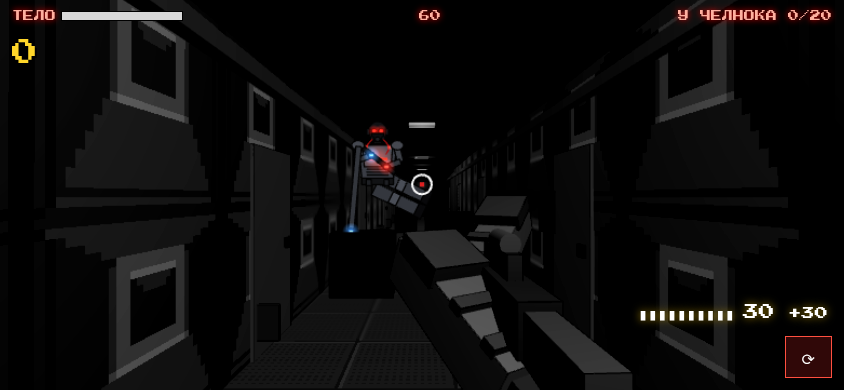
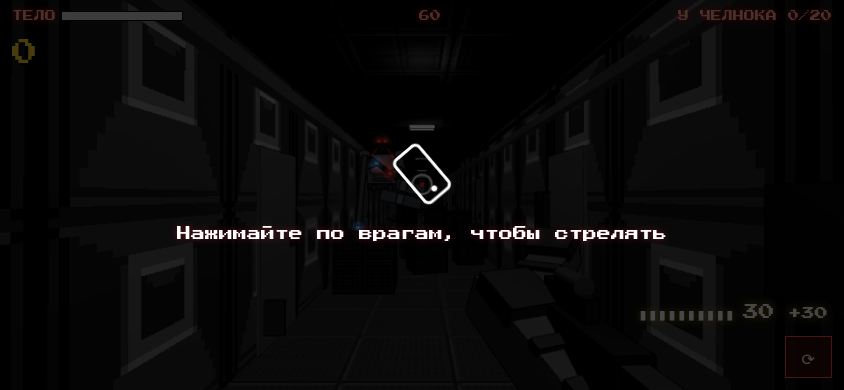
Щит: подсказка в начале, чёткие реплики-барки, кровь по краям, светлее, бегство рейдеров, подначки при беге, рывки взгляда с инерцией, джаггернаут в общем образе, пулемёт громче с меньшим басом
Claude-Session: https://claude.ai/code/session_01VU5vtqYHaM6erxKmxt3HJp

diff --git a/src/minigames/shield.js b/src/minigames/shield.js
@@ -17,13 +17,14 @@ export default {
   immersive: true,
   run(root, done) {
     root.classList.add('sh-root');
-    root.innerHTML = `<canvas class="sh-3d"></canvas><canvas class="sh-2d"></canvas>
+    root.innerHTML = `<canvas class="sh-3d"></canvas><canvas class="sh-2d"></canvas><canvas class="sh-txt"></canvas>
       <div class="sh-hud"><div class="sh-life"><span>ТЕЛО</span><i><b></b></i></div><span class="sh-time"></span><span class="sh-sci"></span></div>
       <div class="sh-kills"></div><div class="sh-ammo"></div>
       <button class="sh-cover" hidden><i>▼</i> УКРЫТИЕ</button><button class="sh-reload">⟳</button>
       <div class="sh-blood"></div><p class="sh-msg"></p>`;
     const $ = (q) => root.querySelector(q);
-    const c3 = $('.sh-3d'), c2 = $('.sh-2d'), g = c2.getContext('2d');
+    const dpr = Math.min(devicePixelRatio || 1, 2);
+    const c3 = $('.sh-3d'), c2 = $('.sh-2d'); let g = c2.getContext('2d');
     const timers = [], at = (ms, fn) => timers.push(setTimeout(fn, ms));
     const G = (n) => `guns/${n}`, N = (b, k) => Array.from({ length: k }, (_, i) => `${b}${i + 1}`);
     const SND = ['smg', 'c-20r', 'lmg', 'shotgun', 'rifle', ...N('bullet_meat', 4), ...N('ric', 5), 'smg_magin', 'smg_cock', 'empty', 'casing_fall_1', 'casing_fall_2', 'casing_fall_3', 'lmg_bolt_open', 'lmg_bolt_closed', ...N('gib', 3), 'splat', 'meatslap', 'shotgun_insert', 'lmg_magin', 'bullet_hit', 'minigun', ...N('hull', 5), ...N('blood', 3), ...N('bodyfall', 4), ...N('floor', 5), 'largethud', 'gen_hit', 'bsplash', 'speak_1', 'speak_2', 'speak_1_exclaim', 'speak_2_exclaim', 'speak_1_ask', ...N('malescream_', 6), 'flash_bang'].map(G);
@@ -33,7 +34,7 @@ export default {
     const meat = () => sample(G(`bullet_meat${1 + Math.floor(Math.random() * 4)}`), 1.4) || snd.meat();
     // картинки и перекраска белых спрайтов в кровь (светотень сохраняется)
     const img = (u) => { const i = new Image(); i.src = u; return i; }, fx = (n) => img(FX[`../assets/fx/${n}.png`]);
-    const SPL = [0, 1, 2, 3, 4, 5].map((k) => fx(`splatter-${k}`)), GIB = [0, 1, 2, 3, 4].map((k) => fx(`gibblet-${k}`)), PUD = [0, 1, 2, 3, 4, 5, 6].map((k) => fx(`splat${k}`));
+    const POOL = ['splata', 'splatb'].map(fx), SPL = [0, 1, 2, 3, 4, 5].map((k) => fx(`splatter-${k}`)), GIB = [0, 1, 2, 3, 4].map((k) => fx(`gibblet-${k}`)), PUD = [0, 1, 2, 3, 4, 5, 6].map((k) => fx(`splat${k}`));
     const SPARK = fx('sparks'), MUZ = img(muzzleUrl), tints = new Map();
     function tint(i, col) {
       if (!i.complete || !i.naturalWidth) return null;
@@ -47,7 +48,7 @@ export default {
     // ---------- 3D коридор: плоские серые материалы + контуры рёбер ----------
     const renderer = new THREE.WebGLRenderer({ canvas: c3, antialias: true });
     renderer.setPixelRatio(Math.min(devicePixelRatio, 1.5));
-    const scene = new THREE.Scene(); scene.background = new THREE.Color(0x050505); scene.fog = new THREE.Fog(0x050505, 8, 58);
+    const scene = new THREE.Scene(); scene.background = new THREE.Color(0x1a1a1a); scene.fog = new THREE.Fog(0x1a1a1a, 14, 70);
     const camera = new THREE.PerspectiveCamera(60, 1, 0.05, 60);
     const L = 60, W = 3.4, H = 3;
     const flat = (c) => new THREE.MeshLambertMaterial({ color: c });
@@ -83,7 +84,7 @@ export default {
     for (const [x, z, w, h] of COVERS) block(w, h, 0.6, x, h / 2, z, 0x5e5a52).material = crateM;
     for (const [x, z, w, h, r] of [[0.1, -31.5, 0.7, 0.7, 0.3], [-0.2, -33.2, 0.6, 0.55, -0.2], [1.1, -32.4, 0.6, 0.9, 0.1], [-1.2, -34.4, 0.7, 0.6, 0.4], [0.35, -34.1, 0.5, 1.2, 0]]) { const m = block(w, h, 0.6, x, h / 2, z, 0x595448); m.rotation.y = r; m.material = crateM; }
     block(1.3, H, 0.5, 1.15, H / 2, -0.6, 0x5c5c5c); // угол, за которым укрываемся
-    scene.add(new THREE.AmbientLight(0xffffff, 0.35));
+    scene.add(new THREE.AmbientLight(0xffffff, 0.9));
     // коридор сложнее: кабели, решётки вентиляции, ниши, щитки, мусор, лужи; редкие мигающие лампы
     const lampsL = [];
     for (let z = -2; z > -L; z -= 3.2) {
@@ -223,6 +224,7 @@ export default {
       P([[-0.21, 1.1], [-0.24, 1.44], [0.24, 1.44], [0.21, 1.1]], '#4b4f58');     // нагрудник
       g.beginPath(); for (let k = 0; k < 3; k++) { g.moveTo(-0.17 * s, -(0.97 + k * 0.045) * s); g.lineTo(0.17 * s, -(0.97 + k * 0.045) * s); } g.stroke();
       g.fillStyle = '#ff3020'; g.fillRect(-0.15 * s, -1.24 * s, 0.3 * s, 0.035 * s); glow(0, 1.225, 0.24, '255,40,20', 0.55); // полоса света
+      if (f.back) { P([[-0.2, 1.0], [-0.2, 1.4], [0.2, 1.4], [0.2, 1.0]], '#2a2c31'); E(0, 1.655, 0.15, 0.16, '#101114'); for (const sx of [-1, 1]) E(sx * 0.31, 1.44, 0.1, 0.075, '#454850'); limb(-0.3, 1.42, -0.36, 1.05, 0.1, '#3c3f46'); limb(0.3, 1.42, 0.36, 1.05, 0.1, '#3c3f46'); return; }  // со спины: ранец, затылок
       // голова: шлем, красные очки, противогаз, трубки
       P([[-0.06, 1.46], [-0.06, 1.52], [0.06, 1.52], [0.06, 1.46]], '#111');
       E(0, 1.655, 0.15, 0.16, '#101114');
@@ -316,23 +318,30 @@ export default {
         else if (p.k === 'drop') { g.fillStyle = '#8a0606'; g.beginPath(); g.arc(0, 0, Math.max(1, p.sz * pm), 0, 7); g.fill(); }
         else if (p.k === 'spot') { g.fillStyle = '#5e0404'; g.beginPath(); g.ellipse(0, 0, Math.max(1, p.sz * pm * 1.6), Math.max(0.5, p.sz * pm * 1.6 * flat), 0, 0, 7); g.fill(); }
         else if (p.k === 'gib') { const im = tint(p.im, '#9a1010'), r = p.sz * pm; if (im) { g.rotate(p.rot); g.drawImage(im, -r, -r, r * 2, r * 2); } }
-        else if (p.k === 'pool') { g.restore(); floorImg(tint(p.im, '#6a0404'), p.x, p.z, p.sz + p.grow * Math.min(1, p.t / (p.slow || 4)), p.rot || 0, a, w, h); continue; }
+        else if (p.k === 'pool') {
+          g.restore(); const R0 = p.sz + p.grow * Math.min(1, p.t / (p.slow || 4));
+          p.parts ??= Array.from({ length: 5 }, (_, k) => ({ im: k < 2 ? pick(POOL) : pick(SPL), dx: (Math.random() - 0.5) * 0.9, dz: (Math.random() - 0.5) * 0.9, r: k < 2 ? 0.8 : 0.45 + Math.random() * 0.3, rot: Math.random() * 6.3, c: k < 2 ? '#5a0303' : '#7a0808' }));
+          for (const q of p.parts) floorImg(tint(q.im, q.c), p.x + q.dx * R0, p.z + q.dz * R0, R0 * q.r, q.rot, a * 0.85, w, h);
+          continue;
+        }
         g.restore();
       }
       for (let i = gore.length - 1; i >= 0; i--) if (gore[i].t > gore[i].life) gore.splice(i, 1);
     }
     // кровь на «стекле»: брызги SS14 крупно, капли, потёки, блик; медленно сходят
     const screenBlood = [];
-    function splatScreen(k = 1) {
-      const w = c2.clientWidth, h = c2.clientHeight, S = Math.min(w, h) / 390, r = (50 + Math.random() * 110) * k * S;
-      screenBlood.push({ x: Math.random() * w, y: Math.random() * h * 0.85, r, im: pick(SPL), rot: Math.random() * 6.3, a: 1,
+    function splatScreen(k = 1, full = false) {
+      const w = c2.clientWidth, h = c2.clientHeight, S = Math.min(w, h) / 390, r = (50 + Math.random() * (full ? 110 : 60)) * k * S;
+      // обычные попадания — только по краям; весь экран — от пулемёта
+      const ex = Math.random() < 0.5 ? Math.random() * w * 0.16 : w * (0.84 + Math.random() * 0.16), ey = Math.random() < 0.5 ? Math.random() * h : (Math.random() < 0.5 ? Math.random() * h * 0.12 : h * (0.88 + Math.random() * 0.12));
+      screenBlood.push({ fade: full ? 0.045 : 0.11, x: full ? Math.random() * w : ex, y: full ? Math.random() * h * 0.85 : ey, r, im: pick(SPL), rot: Math.random() * 6.3, a: 1,
         drips: Array.from({ length: 1 + Math.floor(Math.random() * 3) }, () => ({ dx: (Math.random() - 0.5) * r * 0.6, len: 0, max: r * (0.5 + Math.random() * 1.8), v: 10 + Math.random() * 25, w: (2 + Math.random() * 3) * S })),
         dots: Array.from({ length: 5 + Math.floor(Math.random() * 8) }, () => [(Math.random() - 0.5) * r * 2.6, (Math.random() - 0.5) * r * 2.2, (1.5 + Math.random() * 5) * S]) });
       if (screenBlood.length > 18) screenBlood.shift();
     }
     function drawScreenBlood(dt) {
       for (const b of screenBlood) {
-        b.a -= dt * 0.045; const A = Math.max(0, Math.min(1, b.a * 1.3));
+        b.a -= dt * b.fade; const A = Math.max(0, Math.min(1, b.a * 1.3));
         const dark = tint(b.im, '#3a0000'), main = tint(b.im, '#9c0c0c');
         g.save(); g.globalAlpha = A * 0.92; g.imageSmoothingEnabled = true; g.translate(b.x, b.y); g.rotate(b.rot);
         if (dark) g.drawImage(dark, -b.r + 2, -b.r + 3, b.r * 2, b.r * 2);
@@ -376,12 +385,17 @@ export default {
       shouts.push({ f, text: text || pick(TXT.raiders[kind]), t: 0, heard: false, screen: kind === 'screen' });
     }
     function wrap(t, maxW) { const out = []; let cur = ''; for (const wd of t.split(' ')) { const n = cur ? `${cur} ${wd}` : wd; if (cur && g.measureText(n).width > maxW) { out.push(cur); cur = wd; } else cur = n; } if (cur) out.push(cur); return out; }
+    const c4 = root.querySelector('.sh-txt'), urge = document.createElement('div'); urge.className = 'sh-urge'; root.appendChild(urge);
     function drawShouts(dt, w, h) {
+      const g0 = g; g = c4.getContext('2d'); if (c4.width !== c2.width) { c4.width = c2.width; c4.height = c2.height; } g.setTransform(dpr, 0, 0, dpr, 0, 0); g.clearRect(0, 0, w, h); try { shoutsIn(dt, w, h); } finally { g = g0; }
+    }
+    function shoutsIn(dt, w, h) {
       for (const q of shouts) {
         if (q.f.up < 0.6 && !q.f.dead && !st.hell) continue;          // пока не высунулся — молчит
-        if (!q.heard) { q.heard = true; sample(G(pick(['speak_1_exclaim', 'speak_2_exclaim', 'speak_1', 'speak_2', 'speak_1_ask'])), 0.9, 0.8 + Math.random() * 0.4); if (st.hell && Math.random() < 0.4) sample(G(`malescream_${1 + Math.floor(Math.random() * 6)}`), 0.8); }
+        if (!q.heard) { q.heard = true; sample(G(pick(['speak_1_exclaim', 'speak_2_exclaim', 'speak_1', 'speak_2', 'speak_1_ask'])), 0.9, 0.8 + Math.random() * 0.4); }
         q.t += dt; const b = q.screen ? { xH: w / 2, yH: h * 0.3 + 12, yF: h, s: 120 } : foeBox(q.f, w, h); if (b.behind) continue;
-        const a = Math.min(1, (2.6 - q.t) * 2), pop = 1 + Math.max(0, 0.35 - q.t) * 1.5, jx = (Math.random() - 0.5) * 2.5, jy = (Math.random() - 0.5) * 2.5;
+        if (!q.screen && (q.f.state === 'off' || q.f.dead > 0.6 || b.xH < 0 || b.xH > w || b.yH > h || b.yF < 0 || (st.coverK > 0.5 && b.xH > proj(0.5, 1, -0.35, w, h)[0]))) continue;   // рейдера не видно — нет и текста
+        const a = Math.min(1, (2.6 - q.t) * 2, q.t * 8), pop = 1, jx = 0, jy = 0;
         const fs = Math.round(Math.max(10, Math.min(16, b.s * 0.13)) * pop);
         g.globalAlpha = Math.max(0, a); g.font = `${fs}px "Press Start 2P", monospace`; g.textAlign = 'center';
         const lines = wrap(q.text, Math.max(130, Math.min(w * 0.32, 240))), top = Math.min(b.yH, b.yF) - 12 - q.t * 10;
@@ -439,7 +453,7 @@ export default {
     function startRush() {
       st.rushed = true; st.rushT = st.t;
       st.foes.filter((f) => !f.dead && !f.door).slice(0, 2).forEach((f, k) => { f.state = 'rushPrep'; f.t = 0.5 + k * 0.8; f.lane = k ? 0.4 : -0.4; f.hp = 1; if (!k) shout(f, 'rush', true); });
-      at(450, () => sample(G(`malescream_${1 + Math.floor(Math.random() * 6)}`), 0.8));
+      at(450, () => sample(G('speak_2_exclaim'), 1));
     }
     function rushStep(f, dt, w, h) {
       f.up = 1; const stopZ = st.baseZ - 3.4;
@@ -485,12 +499,9 @@ export default {
       const J = st.jug, b = jugBox(w, h), s = b.s; if (b.behind || !(s > 1)) return;
       g.save(); g.translate(b.x, b.yF); g.rotate(b.ang); g.lineWidth = Math.max(1.5, s * 0.03); g.strokeStyle = '#000'; g.lineJoin = 'round';
       const P = (pts, c) => { g.beginPath(); pts.forEach(([a, bb], i) => (i ? g.lineTo(a * s, -bb * s) : g.moveTo(a * s, -bb * s))); g.closePath(); g.fillStyle = c; g.fill(); g.stroke(); };
-      P([[-0.35, 0], [-0.38, 0.9], [0.38, 0.9], [0.35, 0]], '#18191c');
-      P([[-0.5, 0.9], [-0.55, 1.75], [0.55, 1.75], [0.5, 0.9]], '#26282d');
-      g.fillStyle = '#ff3020'; g.fillRect(-0.3 * s, -1.45 * s, 0.6 * s, 0.04 * s);
-      P([[-0.7, 1.55], [-0.62, 1.85], [-0.3, 1.85], [-0.38, 1.5]], '#1f2126'); P([[0.7, 1.55], [0.62, 1.85], [0.3, 1.85], [0.38, 1.5]], '#1f2126');
-      P([[-0.26, 1.75], [-0.28, 2.15], [0.28, 2.15], [0.26, 1.75]], '#101114');
-      P([[-0.22, 1.82], [-0.23, 2.08], [0.23, 2.08], [0.22, 1.82]], '#c00');            // один большой щиток
+      g.save(); g.scale(1.3, 1.2); raider({ state: 'fire', wpn: 'lmg', flip: 1, fl: 0, run: 0, z: 0, cz: 99, coverH: 0 }, s); g.restore();
+      for (const sx of [-1, 1]) P([[sx * 0.62, 1.62], [sx * 0.56, 1.86], [sx * 0.26, 1.86], [sx * 0.3, 1.58]], '#2b2d33');   // тяжёлые наплечники
+      P([[-0.23, 1.86], [-0.24, 2.12], [0.24, 2.12], [0.23, 1.86]], '#c00');             // один большой щиток вместо очков и маски
       g.save(); g.globalCompositeOperation = 'lighter'; const rg = g.createRadialGradient(0, -1.95 * s, 0, 0, -1.95 * s, 0.5 * s); rg.addColorStop(0, 'rgba(255,30,20,.7)'); rg.addColorStop(1, 'rgba(255,0,0,0)'); g.fillStyle = rg; g.beginPath(); g.arc(0, -1.95 * s, 0.5 * s, 0, 7); g.fill(); g.restore();
       P([[-0.1, 1.28], [-0.1, 1.45], [0.9, 1.4], [0.9, 1.3]], '#0b0b0c');                // пулемёт
       P([[0.1, 1.1], [0.1, 1.3], [0.35, 1.3], [0.35, 1.1]], '#151517');
@@ -508,8 +519,8 @@ export default {
           J.b = 0.07; J.fl = 1; J.flr = Math.random() * 6;
           const b = jugBox(w, h), c = Math.cos(b.ang), sn = Math.sin(b.ang), lx = 0.95 * b.s, ly = -1.35 * b.s, mx = b.x + lx * c - ly * sn, my = b.yF + lx * sn + ly * c;
           for (let k = 0; k < 2; k++) tracer(mx, my, w * Math.random(), h * (0.5 + Math.random() * 0.6), '255,120,60');
-          sampleHeavy(G('minigun'), 3.2, 9) || sampleHeavy(G('lmg'), 3.2, 9);
-          st.shake = 1.4; st.blood = 1; st.flash = 1; st.hp -= 4; st.kick.x += (Math.random() - 0.5) * 0.06; if (Math.random() < 0.5) hurt(); splatScreen();
+          sampleHeavy(G('minigun'), 5, 2) || sampleHeavy(G('lmg'), 5, 2);
+          st.shake = 1.4; st.blood = 1; st.flash = 1; st.hp -= 4; st.kick.x += (Math.random() - 0.5) * 0.06; if (Math.random() < 0.5) hurt(); splatScreen(1, true);
         }
       } else if (!st.fall) startFall(now);
     }
@@ -552,8 +563,8 @@ export default {
         while ((F.n || 0) < shots.length && t > shots[F.n || 0]) {
           F.n = (F.n || 0) + 1; F.fl = 1; F.flr = Math.random() * 6;
           sample(G('rifle'), 1.8); hurt(1.2); if (Math.random() < 0.6) sample(G('gib2'), 1);
-          splatScreen(1.5); splatScreen(0.8); st.shake = 1.5; st.flash = 1;
-          Fa.look = [[F.x, 1.3, F.z], [Fa.x + 0.3, 3, Fa.z - 0.6], [Fa.x + 1.6, 2.4, Fa.z - 0.3]][F.n - 1];   // рывок: на рейдера, в потолок, ещё вбок
+          splatScreen(1.5, true); splatScreen(0.8, true); st.shake = 1.5; st.flash = 1;
+          Fa.look = [[F.x, 1.3, F.z], [Fa.x + 0.3, 3, Fa.z - 0.6], [Fa.x + 1.6, 2.4, Fa.z - 0.3]][F.n - 1]; Fa.jt = now; Fa.from = camera.quaternion.clone(); Fa.n = F.n;   // рывок: на рейдера, в потолок, ещё вбок
           const b = foeBox(F, w, h), [mx, my] = muzzlePt(F, b); tracer(mx, my, w * 0.5, h * 0.6, '255,170,80');
         }
         if (t > 5) { F.state = 'leave'; }
@@ -568,15 +579,21 @@ export default {
       const sh = t < 1 ? st.shake * 0.03 : 0;
       camera.position.set(Fa.x, y, Fa.z);
       camera.rotation.set(pitch + (Math.random() - 0.5) * sh, (Math.random() - 0.5) * sh, roll + Fa.cr);
-      if (Fa.look) { Fa.m ??= new THREE.Matrix4(); Fa.q ??= camera.quaternion.clone(); Fa.m.lookAt(camera.position, tmp.set(...Fa.look), UPL); const tq3 = new THREE.Quaternion().setFromRotationMatrix(Fa.m); Fa.q.slerp(tq3, Math.min(1, dt * 30)); camera.quaternion.copy(Fa.q); }
+      if (Fa.look) {
+        Fa.m ??= new THREE.Matrix4(); Fa.m.lookAt(camera.position, tmp.set(...Fa.look), UPL);
+        const T = new THREE.Quaternion().setFromRotationMatrix(Fa.m), e = (now - Fa.jt) / 1000, q = Fa.from.clone();
+        if (e < 0.06) q.slerp(T, (e / 0.06) * 1.12);                                    // рывок с перелётом
+        else if (Fa.n >= 3) q.slerp(T, 1.12 - Math.min(0.12, (e - 0.06) * 1.2));         // третий — застыл
+        else q.slerp(T, 1.12 - Math.min(0.5, (e - 0.06) * 0.9));                         // голова по инерции падает обратно
+        camera.quaternion.copy(q);
+      }
     }
 
     // ---------- цикл ----------
     let last = performance.now(), raf = 0;
     const hum = storm.start(); hum.set(0.15);
-    const dpr = Math.min(devicePixelRatio || 1, 2);
     function frame(now) {
-      let dt = Math.max(0, Math.min(0.05, (now - last) / 1000)); last = now;
+      let dt = Math.max(0, Math.min(0.05, (now - last) / 1000)); last = now; if (now < introEnd) { dt = 0; st.fire = false; }
       if (st.over) return;
       const lastShots = st.hell && st.ammo <= 5 && !st.fall;       // последние 5 патронов — слоу-мо и сердце
       if (!st.fall) st.slow += ((lastShots ? 0.35 : 1) - st.slow) * Math.min(1, dt * 4);
@@ -602,9 +619,10 @@ export default {
         if (f.state === 'vault') { f.up = 1; if (vaultStep(f, dt)) f.state = 'rush'; continue; }
         if (f.state === 'doorOut') { f.up = 1; f.run += dt * 10; f.x += (f.lane - f.x) * Math.min(1, dt * 4); if (Math.abs(f.x - f.lane) < 0.15) f.state = 'rush'; continue; }
         if (f.state === 'rush' || f.state === 'close') { rushStep(f, dt, w, h); continue; }
-        if (f.state === 'flee') { f.up = 1; f.run += dt * 12; f.z -= dt * 3.5; if (f.z <= (f.door ? -34 : f.cz)) { f.z = f.cz; f.x = f.x0; f.state = f.door ? 'off' : 'hide'; f.t = 1; } continue; }
+        if (f.state === 'flee') { f.up = 1; f.run += dt * 12; f.z -= dt * 3.5; if (f.z <= (f.fleeTo ?? (f.door ? -34 : f.cz))) { if (f.fleeTo) { f.state = 'off'; continue; } f.z = f.cz; f.x = f.x0; f.state = f.door ? 'off' : 'hide'; f.t = 1; } continue; }
         f.t -= dt;
         if (st.hell && Math.random() < dt * 0.12) shout(f, 'hell');
+        if (st.hell && st.hellIntro <= 0 && !f.door && Math.random() < dt * 0.15) { f.state = 'flee'; f.back = true; f.fleeTo = f.cz - 12; shout(f, 'hell'); continue; }
         if (st.hell) { f.z -= dt * 0.8; if (st.hellIntro <= 0 && f.state === 'aim') f.t -= dt; }
         f.up += ((f.state === 'hide' ? 0 : 1) - f.up) * Math.min(1, dt * 7);
         if (f.t > 0) continue;
@@ -629,10 +647,14 @@ export default {
         if (D) { D.m.position.z -= 0.95; sample(G('gen_hit'), 0.8); }
         f.state = 'rushPrep'; f.t = 0.4; f.dead = 0; f.hp = 1; f.x = -1.85; f.z = -16; f.lane = -0.5; shout(f, 'rush', true);
       }
+      // во время бега — подначки, чтобы игрок жёг весь магазин
+      if (st.hell && st.hellIntro <= 0 && !st.jug && st.ammo > 0 && (st.urgeT = (st.urgeT || 0) - dt) <= 0) {
+        st.urgeT = 0.55 + Math.random() * 0.4; const u = urge; u.textContent = pick(TXT.urge); u.style.left = `${20 + Math.random() * 60}%`; u.style.top = `${25 + Math.random() * 40}%`; u.classList.remove('on'); void u.offsetWidth; u.classList.add('on');
+      }
       if (st.ammo === 0 && cov.hidden && !st.jug) { cov.hidden = false; sfx.click(); }
       st.shake = Math.max(0, st.shake - dt * 3); st.blood = Math.max(0, st.blood - dt);
       // камера
-      if (st.hell && !st.cover && !st.jug) { st.walk = Math.min(18, st.walk + dt * 2.4); if ((st.stepT = (st.stepT || 0) - dt) <= 0) { st.stepT = st.walk < 18 ? 0.3 : 0.62; sample(G(`hull${1 + Math.floor(Math.random() * 5)}`), 1.1, 0.8); if (Math.random() < 0.3) sample(G(`blood${1 + Math.floor(Math.random() * 3)}`), 0.6); } }
+      if (st.hell && !st.cover && !st.jug) { st.walk = Math.min(18, st.walk + dt * 4.2); if ((st.stepT = (st.stepT || 0) - dt) <= 0) { st.stepT = st.walk < 18 ? 0.24 : 0.62; sample(G(`hull${1 + Math.floor(Math.random() * 5)}`), 1.1, 0.8); if (Math.random() < 0.3) sample(G(`blood${1 + Math.floor(Math.random() * 3)}`), 0.6); } }
       root.style.setProperty('--dark', String(st.hellIntro > 0 ? 1 : 0));
       const kd2 = Math.exp(-dt * 9); st.kick.x *= kd2; st.kick.y *= kd2; st.kick.r *= kd2;
       if (st.fall) fallCam(now, dt);
@@ -648,7 +670,7 @@ export default {
       root.style.setProperty('--bl', `${blur.toFixed(1)}px`); root.style.setProperty('--fl', st.flash.toFixed(2));
       // оружие
       const ck = st.coverK, rec = st.recoil, rl = st.reload > 0 ? Math.sin(Math.min(1, (1.5 - st.reload) / 1.5) * Math.PI) : 0;
-      gunG.position.set(0.13 + Math.sin(st.t * 1.6) * 0.006 + st.aim.x * 0.03, -0.16 + Math.cos(st.t * 3.2) * 0.004 - ck * 0.35 - rl * 0.12 - st.aim.y * 0.02, -0.5 + rec * 0.05);
+      gunG.position.set(0.25 + Math.sin(st.t * 1.6) * 0.006 + st.aim.x * 0.03, -0.23 + Math.cos(st.t * 3.2) * 0.004 - ck * 0.35 - rl * 0.12 - st.aim.y * 0.02, -0.5 + rec * 0.05);
       gunG.rotation.set(rec * 0.12 + ck * 0.6 + rl * 0.5 - st.aim.y * 0.12, -st.aim.x * 0.15 + 0.04, rl * 0.6 + ck * 0.3);
       flash.visible = rec > 0.6; flash.rotation.z = Math.random() * 6; flash.scale.setScalar(0.7 + Math.random() * 0.6); mlight.intensity = rec > 0.6 ? 5 : 0;
       leds.forEach((l, i) => (l.visible = i < Math.ceil((st.ammo / MAG) * 10)));
@@ -697,6 +719,8 @@ export default {
       at(2600, () => done(win));
     }
     root.__jug = () => juggernaut(); root.__st = st; root.__fall = () => { juggernaut(); st.jug.t0 -= 4300; }; // автотест
+    const intro = document.createElement('div'); intro.className = 'sh-intro'; intro.innerHTML = `<i class="ph"></i><p>${TXT.intro}</p>`; root.appendChild(intro);
+    const introEnd = performance.now() + 2600; at(2200, () => intro.classList.add('off')); at(2800, () => intro.remove());
     raf = requestAnimationFrame(frame);
     return () => { timers.forEach(clearTimeout); st.over = true; cancelAnimationFrame(raf); hum.stop(); removeEventListener('keydown', kd); removeEventListener('keyup', kd); renderer.dispose(); };
   },

diff --git a/src/style.css b/src/style.css
@@ -686,3 +686,21 @@ body.immersive .post, body.immersive #reader::before { display: none; }
 .ag-top i { display: block; width: 50%; height: 6px; margin: 0 auto; background: #2a0508; } .ag-top u { display: block; height: 100%; width: 0; background: #ff3a4e; text-decoration: none; }
 .ag-end { position: absolute; left: 50%; top: 50%; transform: translate(-50%, -50%); font: clamp(14px, 4vw, 26px)/1 var(--f-pixel); opacity: 0; transition: opacity .3s; pointer-events: none; }
 .ag-end.on { opacity: 1; } .ag-end.win { color: #7dff9a; } .ag-end.lose { color: #ff2030; }
+.sh-txt { position: absolute; inset: 0; width: 100%; height: 100%; pointer-events: none; z-index: 8; }
+.sh-intro { position: absolute; inset: 0; z-index: 9; display: flex; flex-direction: column; align-items: center; justify-content: center; gap: 22px; background: rgba(0,0,0,.72); transition: opacity .6s; pointer-events: none; }
+.sh-intro.off { opacity: 0; }
+.sh-intro p { margin: 0; font: clamp(9px, 2.6vw, 14px)/1.4 var(--f-pixel); color: #fff; text-align: center; }
+.sh-intro .ph { width: 34px; height: 58px; border: 3px solid #fff; border-radius: 7px; animation: phRot 1.6s ease-in-out infinite; position: relative; }
+.sh-intro .ph::after { content: ''; position: absolute; left: 50%; bottom: 4px; width: 6px; height: 6px; margin-left: -3px; border-radius: 50%; background: #fff; }
+@keyframes phRot { 0%, 20% { transform: rotate(0); } 55%, 100% { transform: rotate(-90deg); } }
+.sh-txt { position: absolute; inset: 0; width: 100%; height: 100%; pointer-events: none; z-index: 8; transform: scale(1.08); }
+.sh-intro { position: absolute; inset: 0; z-index: 9; display: flex; flex-direction: column; align-items: center; justify-content: center; gap: 22px; background: rgba(0,0,0,.72); transition: opacity .6s; pointer-events: none; }
+.sh-intro.off { opacity: 0; }
+.sh-intro p { margin: 0; font: clamp(9px, 2.6vw, 14px)/1.4 var(--f-pixel); color: #fff; text-align: center; }
+.sh-intro .ph { width: 34px; height: 58px; border: 3px solid #fff; border-radius: 7px; animation: phRot 1.6s ease-in-out infinite; position: relative; }
+.sh-intro .ph::after { content: ''; position: absolute; left: 50%; bottom: 4px; width: 6px; height: 6px; margin-left: -3px; border-radius: 50%; background: #fff; }
+@keyframes phRot { 0%, 20% { transform: rotate(0); } 55%, 100% { transform: rotate(-90deg); } }
+.sh-urge { position: absolute; z-index: 7; transform: translate(-50%, -50%); font: clamp(20px, 7vw, 54px)/1 var(--f-pixel); color: #ff1a1a; text-shadow: 3px 3px 0 #000, 0 0 18px #f00; opacity: 0; pointer-events: none; }
+.sh-urge.on { animation: urge .5s steps(4) forwards; }
+@keyframes urge { 0% { opacity: 1; transform: translate(-50%, -50%) scale(1.6); } 60% { opacity: 1; transform: translate(-50%, -50%) scale(1); } 100% { opacity: 0; transform: translate(-50%, -50%) scale(.9); } }
+.sh-root.fall .sh-urge { display: none; }

diff --git a/CLAUDE.md b/CLAUDE.md
@@ -74,5 +74,5 @@ Claude проверяет каждое изменение скриншотами
 - Пролог «Разрез коры» (`minigames/probe.js`), всего 10 минут. Часть 1 (до 3 мин): цельная планета — вращение пальцем, щипок/колесо — зум; точка атмосферы → данные → зонд; участок поверхности → площадка → посадка; скан масс; помехи от стихий. Часть 2 — выбор режима: «Быстрые приказы» (`raid/quick.js`: 16 узлов на вращаемой планете, штурм за СНК/НТ, подкрепление, закрепить, отозвать, запросы принять/отклонить, баланс) или «Тактика» (`minigames/raid/`): 4 точки (свободна, НТ, СНК, неизвестные) → гексагональный сектор 20×20 (свободная камера: палец — двигать, два пальца — зум/поворот/наклон, ПКМ — поворот) с вышками/шахтами/блок-постами. Запросы НТ/СНК (разведка, захват, подкрепление, проход колонны, зачистка): отказ −12 силы, иначе высадка с базы заказчика; резерв 25 отрядов (штурмовой 1Б 5С 1Л, закрепляющий 3Б 2С, разведка 3Л), 3 труповозки, 2 шаттла. Пешки Л/С/Б (5/7,5/10 БЕ; дальность 5/3/2; рисунок пользователя: визоры и лицевые экраны). Дальность отряда: разведка 5, штурм 3, закреп 1 — дальше бьют только пешки с большей дальностью. Обзор при движении: 1 клетка (разведка 3); действие «Разведка» — 1 клетка (у разведки 3), разведчик выходит и возвращается. Контроль: занятое строение (вышка 3, пост 2, шахта 1) или оборона (1) — +1 БЕ, подсветка видна только при найденном источнике. Тела остаются на месте гибели: труповозка собирает (2 тела → 1 клон через 3 мин), иначе забирает противник или жрёт фауна. Фауна: нематоды, шипуны, фильтратор. Шаттл занимает воздух над клеткой, оба транспорта возят 1 отряд. Один отряд в клетке. Поведение пешек (`crowd.js`): ожидание — вразнобой, атака — Б впереди, С парами колонной, Л сзади; под атакой — дуга к нападающим; закрепление — снежные стенки или ямы; отход — огрызаются; коллизии. 6 действий, у каждого — сторона (НТ/СНК/нейтралитет) и окно подтверждения с бафами/дебафами по каждой пешке. Погода, туман войны, ИИ фракций. Цель — равновесие влияния. Кнопка «Пауза» — справочник всех правил. Реплики отрядов (`story/raid.json → barks`) — над плашкой, следуют за пешками, печатаются со звуком; дрожат, расплываются или встают чётко; при гибели обрываются и рассыпаются. Снаряжение пешек и фауны — цитаты из книги (`story/raid.json`).
 - Режим разработчика: Настройки → «Режим разработчика» → код 474747 (`save dev`) — терминал без кода, все главы открыты.
 - Глава 1 «Вторжение» — посадка в бурю (`minigames/landing.js`): прицел + джойстик, рычаги ФОРСАЖ (7–8% топлива)/ЗАХВАТ, молнии с громом, выбросы плазмы, иней, трещины стекла, искры, огни колонии, приборы, 2 минуты, 3 захвата, угрозы (порыв, лёд, термальный пузырь), переговоры с «Горном-12» и реплики экипажа выплывают из-за краёв, финал — открытие ангара.
-- Глава 10 «Щит» (`minigames/shield.js`), стиль Sierra 7: серый 3D коридор с контурами, 2D рейдеры высовываются из-за укрытий и стреляют, 3D ПП и руки в броне на камере (отдача, покачивание, укрытие, перезарядка, вспышка и свет у дула, шкала патронов), касание — выстрел, «УКРЫТИЕ» (удерживать) — уходим за угол, коридор виден размыто, не попадают; магазин 30 + 1 запасной; рейдеры (каска, визор, бронежилет, 4 вида оружия) кричат и перезаряжаются по `story/shield.json`, мысли К-21 из книги; тёмный коридор с мигающими лампами, кабелями, лужами; вспышка — `assets/muzzle.png` из SS14; попадания по нам — gib/splat/meatslap; звуки оружия из SS14 (`public/audio/guns`, CC-BY-SA, авторы в ATTRIBUTIONS.md; `audio.js → sample/preload` с бас-бустом, перегрузом и компрессором; синтез — запасной), экран дышит — зум, муть, вспышки; ТЕЛО 150, коридор 60 м (рейдеры в дальнем конце), шаги hull/blood при наступлении, кровь на экране, реплики кучкой и со звуком (Voice/Talk, крики malescream), только когда рейдер высунулся, трассеры у всех выстрелов, 3 живучих рейдера, редкие живые реплики с матом только над рейдерами (красные, дрожат), убитый падает назад и исчезает, кнопка укрытия появляется после первого магазина, дробовик стреляет раздельно. Сюжет: перезарядка только за углом → затемнение и медленно «И ГРЯНУЛ АД» → выход, контраст как ULTRAKILL, рейдеры бегут в ужасе, идём вперёд; последние 5 патронов — слоу-мо и сердце; финал — джаггернаут вдалеке с одним щитком и пулемётом (minigun SS14, `sampleHeavy` с отдельным басом), flash_bang + звон, быстрое падение с ударами (bodyfall), долго лежим, экран долго светлеет, медленно пугливое «Прости...». 60 с. Без ЭЛТ-развёртки и виньетки (`immersive`: body.immersive), зум — FOV камеры. Два рейдера делают рывок на нас; лорные крики («Клон, проверь!») — и сразу очередь; вспышки дула (спрайт SS14), свет, трассер и звук — в один момент; мимо — искры SS14 у стен; кровь — спрайты SS14 (splatter/gibblet/puddle): брызги, капли, ошмётки, лужи, на стекле — потёки. Рейдеры по референсу: чёрный шлем, красные очки, противогаз с красными трубками, красная полоса на груди, левая перчатка светится синим, правая — красным. Финал: пулемёт (громче, меньше баса), падение камерой на пол, быстрые шаги, рейдер: «Добить.», 3 выстрела — взгляд рывком вбок. Реплики по одной, длинные — в несколько строк. ТЕЛО 100. Рейдеры за укрытием присели; рывок — прыжок через ящик (хват левой рукой, ноги перекидываются), ещё ящики на 30–35 м; третий выбегает из двери (-16 м). После перезарядки бежим. Лужи лежат на полу (проекция углов, аффинные треугольники). После падения: двое выглядывают — «Сдох?» / «Бегом!», второй перепрыгивает и бежит, «Добить.» — на экране, взгляд рывками: на рейдера, в потолок, вбок; труп неподвижен. Текстуры коридора из SS14 (плитка, стена, плейтинг, решётка).
+- Глава 10 «Щит» (`minigames/shield.js`), стиль Sierra 7: серый 3D коридор с контурами, 2D рейдеры высовываются из-за укрытий и стреляют, 3D ПП и руки в броне на камере (отдача, покачивание, укрытие, перезарядка, вспышка и свет у дула, шкала патронов), касание — выстрел, «УКРЫТИЕ» (удерживать) — уходим за угол, коридор виден размыто, не попадают; магазин 30 + 1 запасной; рейдеры (каска, визор, бронежилет, 4 вида оружия) кричат и перезаряжаются по `story/shield.json`, мысли К-21 из книги; тёмный коридор с мигающими лампами, кабелями, лужами; вспышка — `assets/muzzle.png` из SS14; попадания по нам — gib/splat/meatslap; звуки оружия из SS14 (`public/audio/guns`, CC-BY-SA, авторы в ATTRIBUTIONS.md; `audio.js → sample/preload` с бас-бустом, перегрузом и компрессором; синтез — запасной), экран дышит — зум, муть, вспышки; ТЕЛО 150, коридор 60 м (рейдеры в дальнем конце), шаги hull/blood при наступлении, кровь на экране, реплики кучкой и со звуком (Voice/Talk, крики malescream), только когда рейдер высунулся, трассеры у всех выстрелов, 3 живучих рейдера, редкие живые реплики с матом только над рейдерами (красные, дрожат), убитый падает назад и исчезает, кнопка укрытия появляется после первого магазина, дробовик стреляет раздельно. Сюжет: перезарядка только за углом → затемнение и медленно «И ГРЯНУЛ АД» → выход, контраст как ULTRAKILL, рейдеры бегут в ужасе, идём вперёд; последние 5 патронов — слоу-мо и сердце; финал — джаггернаут вдалеке с одним щитком и пулемётом (minigun SS14, `sampleHeavy` с отдельным басом), flash_bang + звон, быстрое падение с ударами (bodyfall), долго лежим, экран долго светлеет, медленно пугливое «Прости...». 60 с. Без ЭЛТ-развёртки и виньетки (`immersive`: body.immersive), зум — FOV камеры. Два рейдера делают рывок на нас; лорные крики («Клон, проверь!») — и сразу очередь; вспышки дула (спрайт SS14), свет, трассер и звук — в один момент; мимо — искры SS14 у стен; кровь — спрайты SS14 (splatter/gibblet/puddle): брызги, капли, ошмётки, лужи, на стекле — потёки. Рейдеры по референсу: чёрный шлем, красные очки, противогаз с красными трубками, красная полоса на груди, левая перчатка светится синим, правая — красным. Финал: пулемёт (громче, меньше баса), падение камерой на пол, быстрые шаги, рейдер: «Добить.», 3 выстрела — взгляд рывком вбок. Реплики по одной, длинные — в несколько строк. ТЕЛО 100. Рейдеры за укрытием присели; рывок — прыжок через ящик (хват левой рукой, ноги перекидываются), ещё ящики на 30–35 м; третий выбегает из двери (-16 м). После перезарядки бежим. Лужи лежат на полу (проекция углов, аффинные треугольники). После падения: двое выглядывают — «Сдох?» / «Бегом!», второй перепрыгивает и бежит, «Добить.» — на экране, взгляд рывками: на рейдера, в потолок, вбок; труп неподвижен. Текстуры коридора из SS14 (плитка, стена, плейтинг, решётка). Коридор светлее. В начале — подсказка 2 с (анимация поворота телефона, «Нажимайте по врагам…»). Реплики чёткие, отдельный холст без фильтров, только барки (speak_*), текст только при видимом рейдере. Кровь на экране — по краям, на весь экран только от пулемёта. Лужи — несколько спрайтов внахлёст. В аду часть рейдеров разворачивается и убегает (вид со спины); при беге — подначки «УБЕЙ/СТРЕЛЯЙ/ЖМИ». Джаггернаут — тот же рейдер крупнее с одним щитком. Рывки взгляда: перелёт и голова по инерции падает обратно, на третьем — застыл.
 - Главы 2–48 (кроме 10) — типовые мини-игры `minigames/arcade.js` по `story/minigames.json` (потом заменим).
